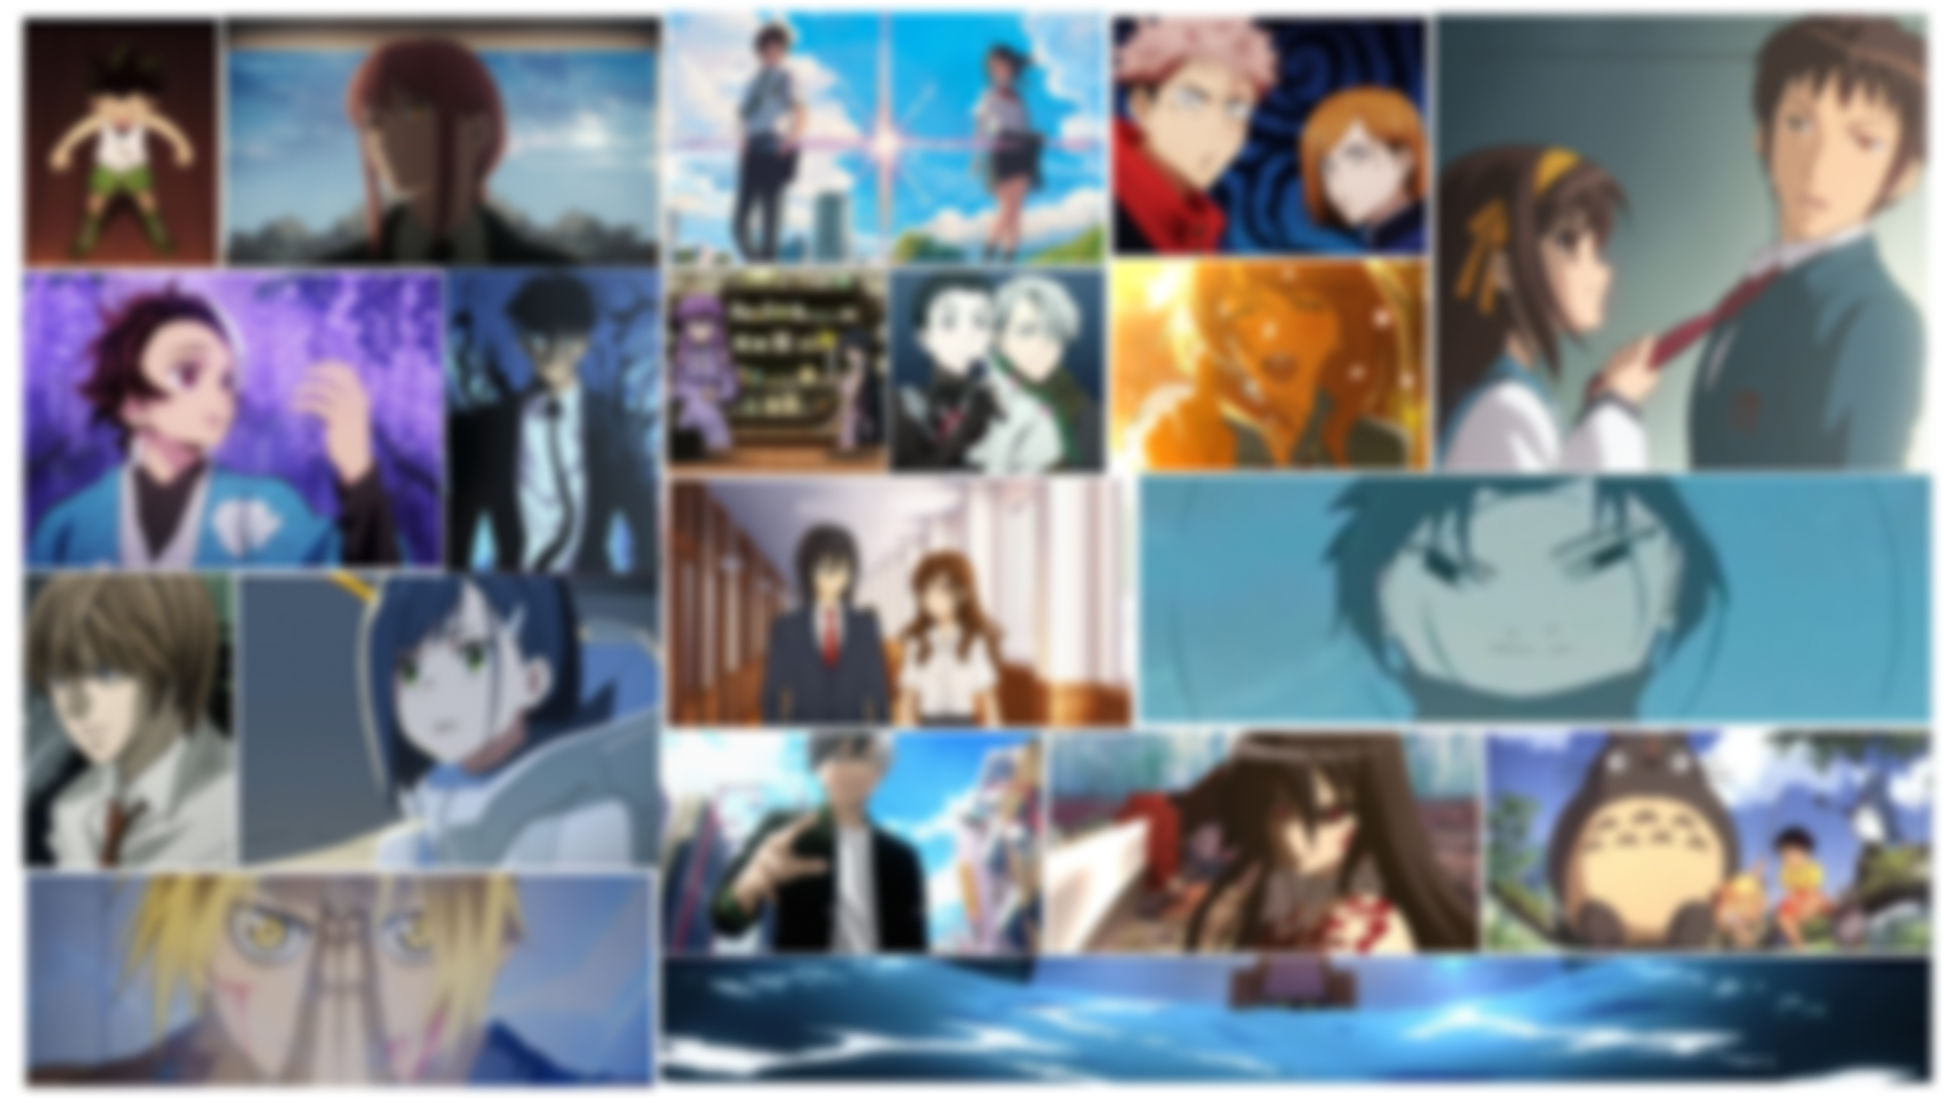
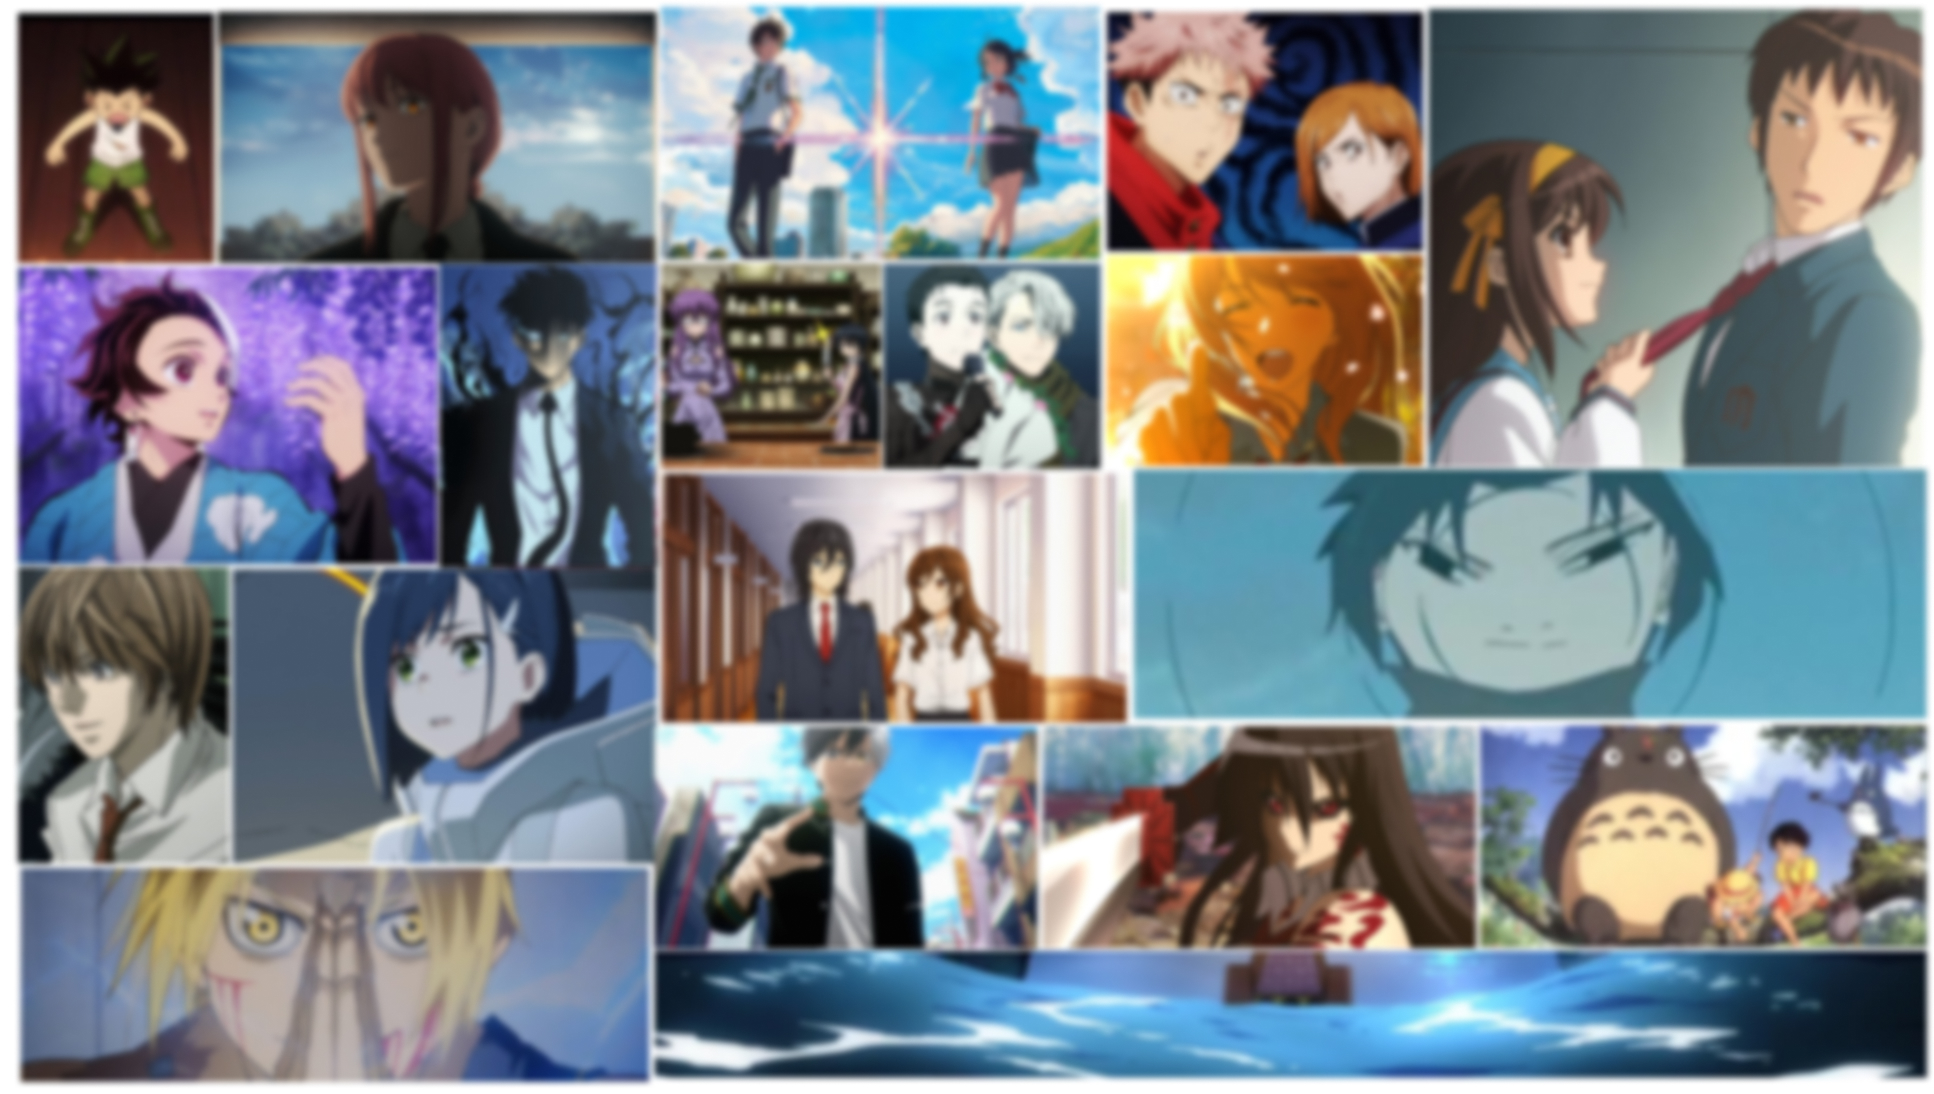
Fast fix. Added similar movies, updated background.

diff --git a/CinematiQ/Program.cs b/CinematiQ/Program.cs
@@ -13,7 +13,16 @@ builder.Services.AddDbContext<ApplicationDbContext>(options =>
     options.UseSqlServer(connectionString));
 builder.Services.AddDatabaseDeveloperPageExceptionFilter();
 
-builder.Services.AddDefaultIdentity<ApplicationIdentityUser>(options => options.SignIn.RequireConfirmedAccount = false)
+builder.Services.AddDefaultIdentity<ApplicationIdentityUser>(options =>
+    {
+        options.SignIn.RequireConfirmedAccount = false;
+        options.Password.RequireDigit = false;
+        options.Password.RequiredLength = 6;
+        options.Password.RequireNonAlphanumeric = false;
+        options.Password.RequireUppercase = false;
+        options.Password.RequireLowercase = false;
+        options.Password.RequiredUniqueChars = 1;
+    })
     .AddRoles<IdentityRole>()
     .AddEntityFrameworkStores<ApplicationDbContext>();
 builder.Services.AddControllersWithViews();

diff --git a/CinematiQ/Controllers/FilmsController.cs b/CinematiQ/Controllers/FilmsController.cs
@@ -174,6 +174,7 @@ public class FilmsController : Controller
             .ToListAsync();
 
         pageVm.Movie = movie;
+        pageVm.SimilarMovies = _context.Movies.AsNoTracking().Take(4).ToList();
 
         if (!User.Identity?.IsAuthenticated ?? true)
         {
